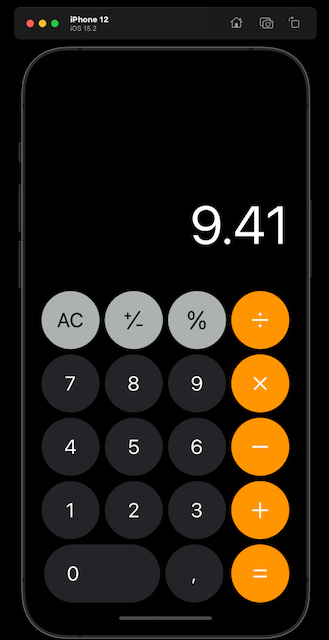
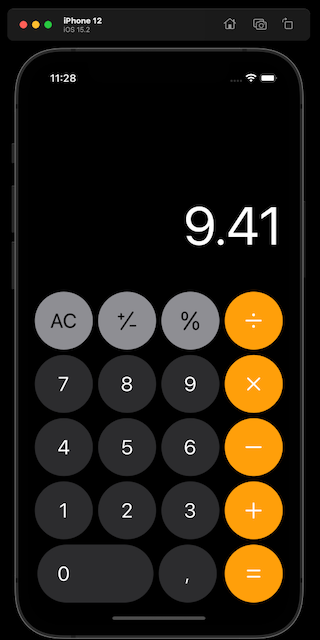
Refactoring

diff --git a/Calculator/UI/NumberButtons.swift b/Calculator/UI/NumberButtons.swift
@@ -16,24 +16,27 @@ struct NumberButtons: View {
             Button (action: { viewModel.addSymbol("8") }, label: { Text("8") })
             Button (action: { viewModel.addSymbol("9") }, label: { Text("9") })
         }
-        .buttonStyle(SetButtonStule(buttonColor: .gray, labelColor: .white))
+        .buttonStyle(SetButtonStule(buttonColor: Color("DarkGrayColor"), labelColor: .white))
+        
         HStack {
             Button (action: { viewModel.addSymbol("4") }, label: { Text("4") })
             Button (action: { viewModel.addSymbol("5") }, label: { Text("5") })
             Button (action: { viewModel.addSymbol("6") }, label: { Text("6") })
         }
-        .buttonStyle(SetButtonStule(buttonColor: .gray, labelColor: .white))
+        .buttonStyle(SetButtonStule(buttonColor: Color("DarkGrayColor"), labelColor: .white))
+        
         HStack {
             Button (action: { viewModel.addSymbol("1") }, label: { Text("1") })
             Button (action: { viewModel.addSymbol("2") }, label: { Text("2") })
             Button (action: { viewModel.addSymbol("3") }, label: { Text("3") })
         }
-        .buttonStyle(SetButtonStule(buttonColor: .gray, labelColor: .white))
+        .buttonStyle(SetButtonStule(buttonColor: Color("DarkGrayColor"), labelColor: .white))
+        
         HStack {
             Button (action: { viewModel.addSymbol("0") }, label: { Text("0") })
                 .buttonStyle(SetZeroButtonStule())
             Button (action: { viewModel.addSymbol(".") }, label: { Text(",") })
-                .buttonStyle(SetButtonStule(buttonColor: .gray, labelColor: .white))
+                .buttonStyle(SetButtonStule(buttonColor: Color("DarkGrayColor"), labelColor: .white))
         }
     }
 }

diff --git a/Calculator/UI/ViewModel.swift b/Calculator/UI/ViewModel.swift
@@ -11,6 +11,7 @@ class ViewModel {
     
     var equation = Observe("0")
     
+    
     func addSymbol(_ symbol: String) {
         
         switch equation.value + symbol {
@@ -19,11 +20,15 @@ class ViewModel {
         case "00", "01", "02", "03", "04", "05", "06", "07", "08", "09":
             equation.value = symbol
         default:
+            if symbol == "." && equation.value.last == "." {
+                break
+            }
             equation.value += symbol
         }
     }
     
     func calculating() {
+        
         let expr = NSExpression(format: equation.value)
         if let result = expr.expressionValue(with: nil, context: nil) as? NSNumber {
             equation.value = "\(result.doubleValue)"
@@ -33,6 +38,7 @@ class ViewModel {
     }
     
     func percent() {
+        
         let expr = NSExpression(format: equation.value + "/100")
         if let result = expr.expressionValue(with: nil, context: nil) as? NSNumber {
             equation.value = "\(result.doubleValue)"

diff --git a/Calculator/Other/ButtonsStyle.swift b/Calculator/Other/ButtonsStyle.swift
@@ -30,10 +30,11 @@ struct SetButtonStule: ButtonStyle {
 struct SetZeroButtonStule: ButtonStyle {
     
     func makeBody(configuration: Configuration) -> some View {
+        
         configuration.label
             .padding(30)
             .frame(width: buttonSize * 2, height: buttonSize, alignment: .leading)
-            .background(.gray)
+            .background(Color("DarkGrayColor"))
             .foregroundColor(.white)
             .clipShape(Capsule())
             .scaleEffect(configuration.isPressed ? 1.2 : 1)

diff --git a/Calculator/UI/LightGrayButton.swift b/Calculator/UI/LightGrayButton.swift
@@ -16,7 +16,7 @@ struct LightGrayButton: View {
             Button (action: {}, label: { Image(systemName: "plus.forwardslash.minus") })
             Button (action: { viewModel.percent() }, label: { Image(systemName: "percent") })
         }
-        .buttonStyle(SetButtonStule(buttonColor: .secondary, labelColor: .black))
+        .buttonStyle(SetButtonStule(buttonColor: Color("LightGrayColor"), labelColor: .black))
     }
 }
 
